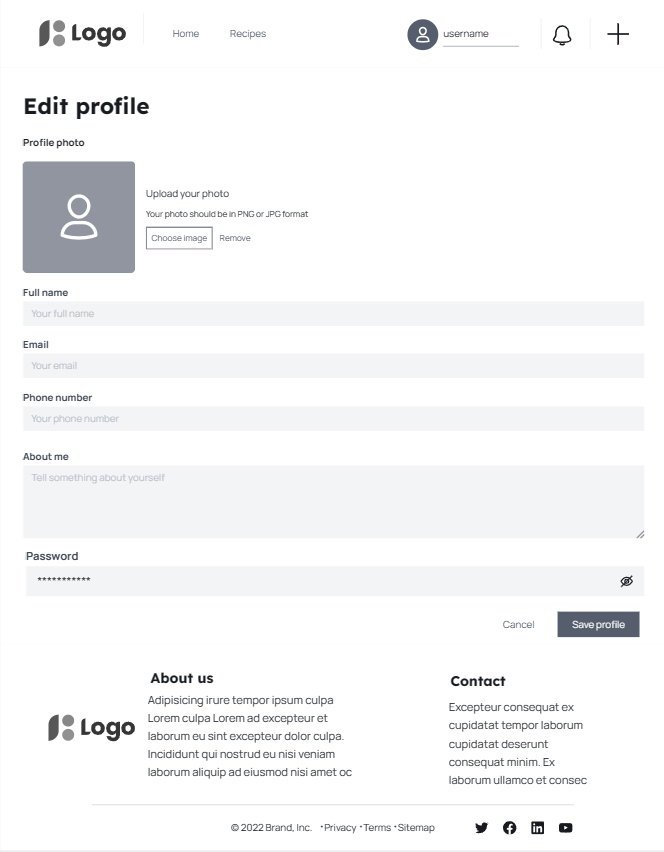
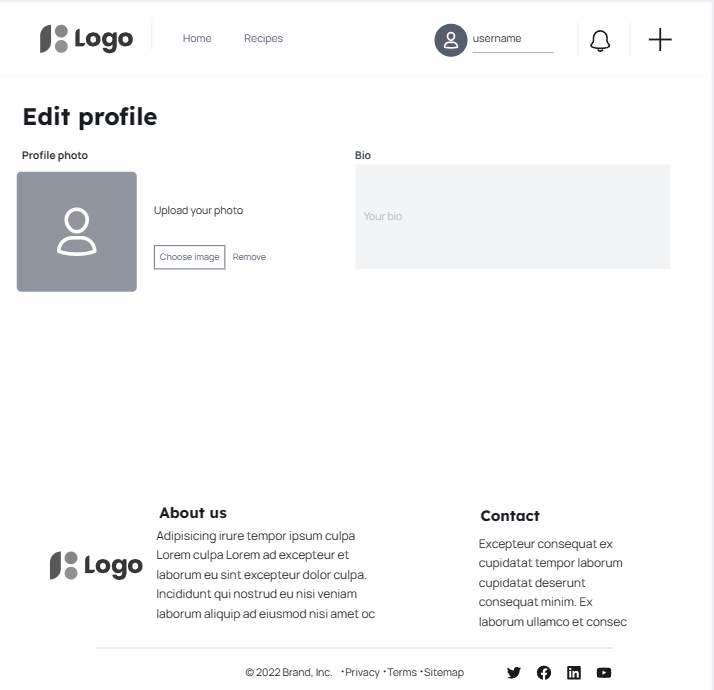
Add wireframes to readme.md

diff --git a/README.md b/README.md
@@ -56,6 +56,50 @@ This structured approach not only keeps the project organized but also aligns wi
 
 Wireframes were produced based on those user stories that had been identified.
 
+#### Home
+<p align="center">
+    <img src="readme-documentation/wireframe/home.png" width=100%>
+</p>
+
+#### Recipes Page
+
+Single recipe Page
+
+<p align="center">
+    <img src="readme-documentation/wireframe/recipe-page.png" width=100%>
+</p>
+
+Recipe Grid page 
+
+<p align="center">
+    <img src="readme-documentation/wireframe/recipe-grid.png" width=100%>
+</p>
+
+Recipe Create page
+
+<p align="center">
+    <img src="readme-documentation/wireframe/create-recipe.png" width=100%>
+</p>
+
+#### Signup/Login
+
+<p align="left">
+    <img src="readme-documentation/wireframe/signin.png" width=45%>
+</p>
+<p align="right">
+    <img src="readme-documentation/wireframe/signup.png" width=45%>
+</p>
+
+#### Edit Profile
+<p align="center">
+    <img src="readme-documentation/wireframe/edit-profile.png" width=100%>
+</p>
+
+#### Profile Page
+<p align="center">
+    <img src="readme-documentation/wireframe/profile.png" width=100%>
+</p>
+
 ### Data models
 
 Data models were planned alongside the wireframes. These are documented in the read-me for the backend [README-BACKEND.md](https://github.com/redifo/recipe-drf-api/blob/main/README-BACKEND.md).

diff --git a/FRONTEND-TESTING.md b/FRONTEND-TESTING.md
@@ -70,6 +70,8 @@ Due to the limited time constraint for this project the user stories listed in t
 
 ## Automated tests
 
+No automated tests were written for the front end due to the limited timeframe of the project and unseen circumtances taking longer than expected.
+
 ## Validator testing
 ### W3C HTML Validation
 [W3C Markup Validation](https://validator.w3.org/) is a service provided by the W3C that validates HTML code against official specifications, ensuring syntax correctness and adherence to web standards.
@@ -96,9 +98,8 @@ The validator have shown that there were some issues in some of the css files (o
 
 All JavaScript files were validated using the ESLint JavaScript validator duting development and all warning and errors ahve been solved as sson as they appear or as soon as possoible. Identified issues were addressed accordingly.
 
-## Web Accessability Testing
-### WAVE web accessability testing
-### Lighthouse testing
+
+## Lighthouse testing
 
 ## Resolved bugs
 
